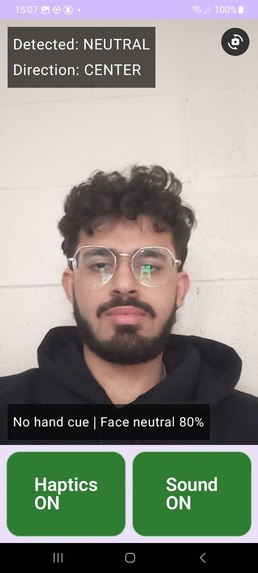
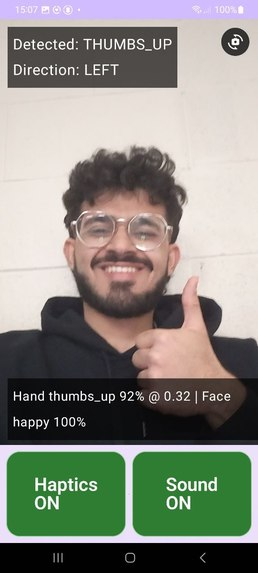
Reorder projects and swap VisualizeQuantum images
Rearrange the project list order, swap the VisualizeQuantum gallery image ordering, and update the CueMate screenshot.

Changed region(s): [[0.0, 0.2373, 1.0, 0.7714], [0.3101, 0.0297, 0.7132, 0.178]]

diff --git a/lib/content.ts b/lib/content.ts
@@ -158,6 +158,32 @@ export const projects: Project[] = [
     links: [{ label: "Devpost", url: "https://devpost.com/software/cuemate" }],
   },
   {
+    title: "VisualizeQuantum",
+    description:
+      "An interactive playground for visualizing quantum algorithms, starting with QAOA graph coloring",
+    repo: "https://github.com/Amir-Nafissi/visualize-quantum",
+    live: "https://visualize-quantum.vercel.app",
+    longDescription:
+      "VisualizeQuantum is an interactive, modular playground for visualizing quantum algorithms. Milestone 1 ships graph coloring with QAOA (Quantum Approximate Optimization Algorithm): you build a graph, solve a real QUBO with an exact statevector QAOA locally, or sample the optimized circuit on IBM Quantum hardware, and watch the optimization converge. The app is built around a small plugin contract so future algorithms drop in as self-contained modules. I built the front end with Next.js, TypeScript, and Tailwind, with a Python serverless backend handling the NumPy/SciPy QAOA math and Qiskit-driven IBM runs.",
+    images: [
+      { src: "/gallery/projects/visualize_quantum/colored_graph.png", caption: "QAOA's result: a properly colored graph, with the optimization converged." },
+      { src: "/gallery/projects/visualize_quantum/graph_builder.png", caption: "The interactive graph builder, where you lay out nodes and edges before handing the problem to QAOA." }
+    ],
+  },
+  {
+    title: "WatQ Website",
+    description:
+      "Marketing site for WatQ, the UWaterloo quantum design team",
+    repo: "https://github.com/Amir-Nafissi/WatQ-Website",
+    live: "https://watq-website.vercel.app",
+    longDescription:
+      "The WatQ Website is the marketing site for WatQ, the undergraduate quantum design team at the University of Waterloo, covering both the photonics hardware and Qiskit software sub-teams. It is fully static with no backend: an interactive WebGL hero, a self-drawing Mach-Zehnder interferometer SVG, a draggable 3D Bloch sphere for exploring single-qubit gates, and a Qiskit algorithm showcase. I built it with Next.js, TypeScript, Tailwind, Framer Motion, and React Three Fiber, and every route prerenders statically.",
+    images: [
+      { src: "/gallery/projects/WatQ_Website/hero_page.png", caption: "The landing page hero, with its interactive WebGL particle knot." },
+      { src: "/gallery/projects/WatQ_Website/qubit_viz.png", caption: "The interactive 3D Bloch sphere, where you drag the state vector and apply single-qubit gates." }
+    ],
+  },
+  {
     title: "EchoSense",
     description:
       "A smart cane that warns blind users of head- and foot-level obstacles",
@@ -184,31 +210,5 @@ export const projects: Project[] = [
       { src: "/gallery/projects/multiplayer_checkers/multiplayer_checkers_screenshot.png", caption: "A screenshot of the game running and the underlying user interface" }
     ],
     // links: [{ label: "Repository", url: "#" }],
-  },
-  {
-    title: "VisualizeQuantum",
-    description:
-      "An interactive playground for visualizing quantum algorithms, starting with QAOA graph coloring",
-    repo: "https://github.com/Amir-Nafissi/visualize-quantum",
-    live: "https://visualize-quantum.vercel.app",
-    longDescription:
-      "VisualizeQuantum is an interactive, modular playground for visualizing quantum algorithms. Milestone 1 ships graph coloring with QAOA (Quantum Approximate Optimization Algorithm): you build a graph, solve a real QUBO with an exact statevector QAOA locally, or sample the optimized circuit on IBM Quantum hardware, and watch the optimization converge. The app is built around a small plugin contract so future algorithms drop in as self-contained modules. I built the front end with Next.js, TypeScript, and Tailwind, with a Python serverless backend handling the NumPy/SciPy QAOA math and Qiskit-driven IBM runs.",
-    images: [
-      { src: "/gallery/projects/visualize_quantum/graph_builder.png", caption: "The interactive graph builder, where you lay out nodes and edges before handing the problem to QAOA." },
-      { src: "/gallery/projects/visualize_quantum/colored_graph.png", caption: "QAOA's result: a properly colored graph, with the optimization converged." }
-    ],
-  },
-  {
-    title: "WatQ Website",
-    description:
-      "Marketing site for WatQ, the UWaterloo quantum design team",
-    repo: "https://github.com/Amir-Nafissi/WatQ-Website",
-    live: "https://watq-website.vercel.app",
-    longDescription:
-      "The WatQ Website is the marketing site for WatQ, the undergraduate quantum design team at the University of Waterloo, covering both the photonics hardware and Qiskit software sub-teams. It is fully static with no backend: an interactive WebGL hero, a self-drawing Mach-Zehnder interferometer SVG, a draggable 3D Bloch sphere for exploring single-qubit gates, and a Qiskit algorithm showcase. I built it with Next.js, TypeScript, Tailwind, Framer Motion, and React Three Fiber, and every route prerenders statically.",
-    images: [
-      { src: "/gallery/projects/WatQ_Website/hero_page.png", caption: "The landing page hero, with its interactive WebGL particle knot." },
-      { src: "/gallery/projects/WatQ_Website/qubit_viz.png", caption: "The interactive 3D Bloch sphere, where you drag the state vector and apply single-qubit gates." }
-    ],
   },
 ];
